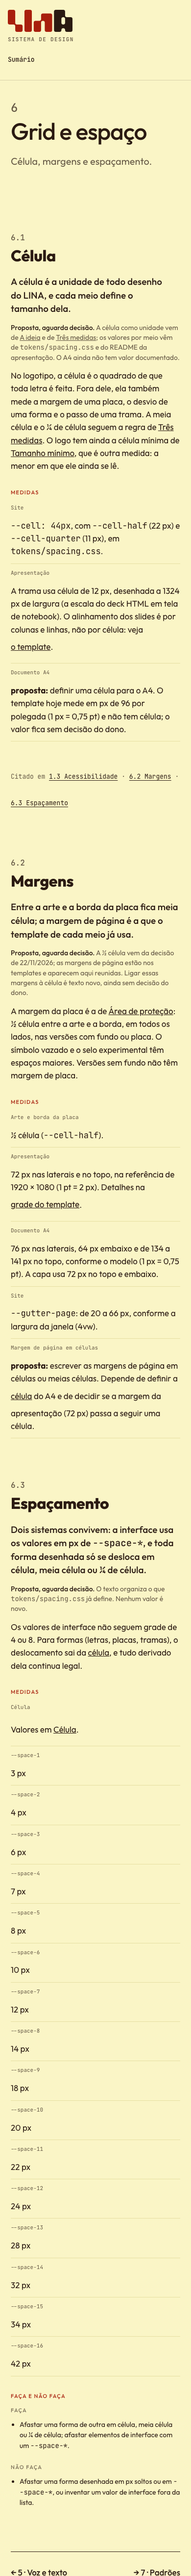
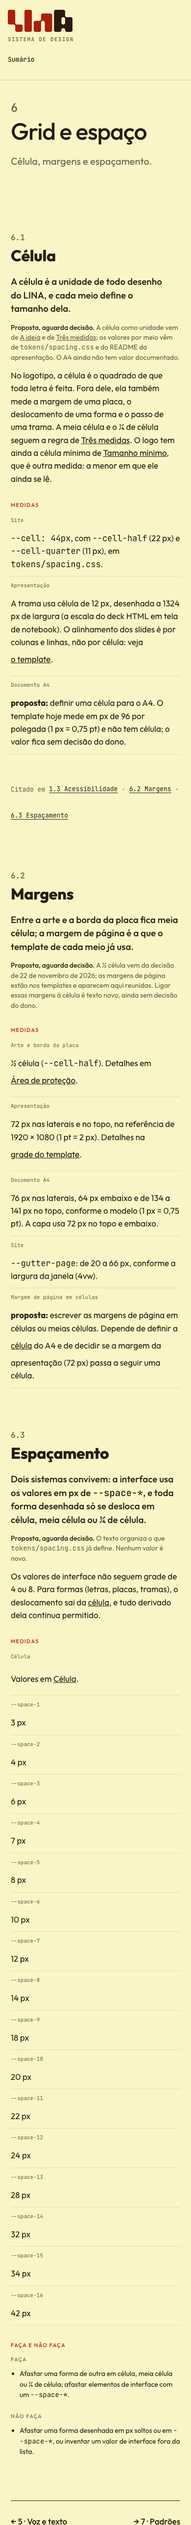
docs(plano): 11 tarefas 1–5 feitas, renders, aguarda dono

diff --git a/docs/superpowers/plans/2026-11-26-revisao-site/progress.md b/docs/superpowers/plans/2026-11-26-revisao-site/progress.md
@@ -29,7 +29,7 @@
 | 08 — feedback: página e envio | `[██████████]` | 3/3 | Completo (mesclado na main) |
 | 09 — feedback: entradas na home e no menu | `[██████████]` | 2/2 | Completo (mesclado na main) |
 | 10 — feedback: texto, acessibilidade, aprovação | `[██████████]` | 3/3 | Completo, aprovado pelo dono em 2026-11-28 (branch `revisao-site/10-feedback-final`) |
-| 11 — conteúdo novo | `[░░░░░░░░░░]` | 0/6 | Escrito |
+| 11 — conteúdo novo | `[████████░░]` | 5/6 | Tarefas 1–5 feitas; aguarda decisões do dono (branch `revisao-site/11-conteudo-novo`) |
 | 12 — arquivar visual-code | `[░░░░░░░░░░]` | — | Não escrito |
 
 ## Plano 01 — motores
@@ -134,14 +134,14 @@ Herança para o 05: hex das 12 cores seguem em `capitulos/` (2.x, 3.x, 4.x, 8.2)
 
 ## Plano 11 — conteúdo novo
 
-`[░░░░░░░░░░]` 0% — 0 de 6 tarefas. Plano: [`11-conteudo-novo.md`](11-conteudo-novo.md).
+`[████████░░]` 83% — 5 de 6 tarefas. Plano: [`11-conteudo-novo.md`](11-conteudo-novo.md).
 
-- [ ] **Tarefa 1** — uso do logo: área de proteção e tamanho mínimo (Logotipo)
-- [ ] **Tarefa 2** — Grid e espaço: célula, margens, espaçamento
-- [ ] **Tarefa 3** — Imagem: fotografia
-- [ ] **Tarefa 4** — capítulo novo Voz e texto; renumeração conferida
-- [ ] **Tarefa 5** — Princípios: acessibilidade
-- [ ] **Tarefa 6** — verificação, renders, decisões do dono
+- [x] **Tarefa 1** — uso do logo: área de proteção e tamanho mínimo (Logotipo). `6f51f15`, `d229eaa`; review após 1 rodada
+- [x] **Tarefa 2** — Grid e espaço: célula, margens, espaçamento. `f0021d8`, `ebb4cc1`; review limpo
+- [x] **Tarefa 3** — Imagem: fotografia. `2a51295`, `8c23ddf`; review após 1 rodada
+- [x] **Tarefa 4** — capítulo novo Voz e texto; renumeração conferida (Templates 10→11 em memórias). `5114a73`, `855362e`; review após 1 rodada
+- [x] **Tarefa 5** — Princípios: acessibilidade. `ad8d0ae`, `4380aa0`; review após 1 rodada
+- [ ] **Tarefa 6** — verificação, renders, decisões do dono. Passos 1–4 feitos: checagens ok (95/95, tokens 0), `SKILL.md` sem "em breve" (`534fb78`), revisão final com 18 ajustes (`2e0b64c`), renders em `records/11-render/`. Falta o passo 5: dono responde as Perguntas do [record](records/11-conteudo-novo.md).
 
 ## Estado herdado
 
@@ -201,3 +201,4 @@ Herança para o 05: hex das 12 cores seguem em `capitulos/` (2.x, 3.x, 4.x, 8.2)
 - 2026-11-28 — Dono fez envio real e VoiceOver; pediu Página como lista de seções (feito). Falta aprovação.
 - 2026-11-28 — Feedback (07–10) aprovado pelo dono. Plano 10 completo; próximo: escrever o 11.
 - 2026-11-28 — 10 mesclado na main (`6707280`). Plano 11 escrito. Dono: voz e texto vira capítulo novo depois de Tipografia; acessibilidade entra em Princípios.
+- 2026-11-28 — Tarefas 1–5 do 11 concluídas (subagentes, review por tarefa); revisão final e renders feitos. Aguarda o dono: Perguntas e Gosto no record 11.
